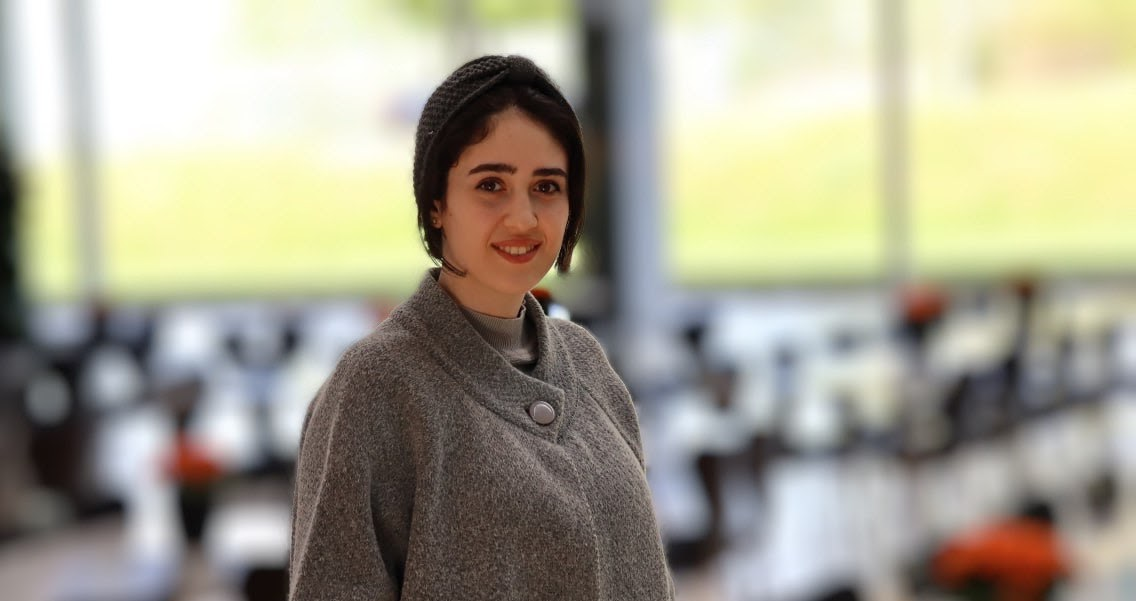
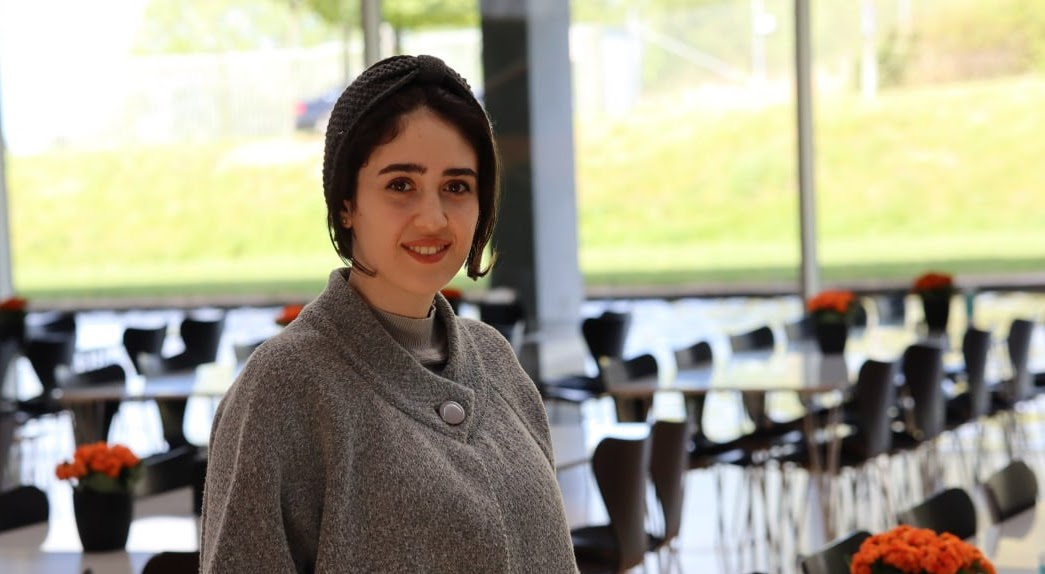
add about

diff --git a/style.css b/style.css
@@ -8,16 +8,17 @@
 body {
     margin: 0;
     font-family: Arial, sans-serif;
-    overflow-x: hidden; 
+    overflow-x: hidden;
+    background-color: #f4f4f4; 
 }
-/* font */
+/* font --------------------------------------*/
 .salsa-regular {
     font-family: "Salsa", cursive;
     font-weight: 400;
     font-style: normal;
 }
 
-/* Navbar */
+/* Navbar--------------------------------------------- */
 nav {
     display: flex;
     justify-content: space-around;
@@ -44,14 +45,15 @@ nav ul li a {
     color: white;
     text-decoration: none;
 }
-/* home page */
+/* home page ------------------------------*/
 .hero {
     position: relative; 
     height: 100vh;
     width: 100vw;
-    background-image: url('./assets/niloufar.jpg');
+    background-image: url('./assets/Niloufar.jpg');
     background-size: cover;
-    background-position: center;
+    background-position:center;
+    background-repeat: no-repeat;
     background-color: #333;
     display: flex;
     justify-content: center;
@@ -66,12 +68,12 @@ nav ul li a {
     left: 0;
     width: 100%;
     height: 100%;
-    background-color: rgba(0, 0, 0, 0.6); 
+    background-color: rgba(0, 0, 0, 0.65); 
 }
 
 .hero-content {
     position: absolute;
-    top: 50%; 
+    top: 45%; 
     left: 60%; 
     transform: translateY(-50%); 
     text-align: center; 
@@ -105,8 +107,8 @@ section {
     width: 100%; 
 }
 
+
 #about, #projects, #contact {
-    background-color: #f4f4f4;
     margin: 2em 0;
 }
 
@@ -124,6 +126,68 @@ section {
 @keyframes blink-caret {
     from, to { border-color: transparent }
     50% { border-color: white; }
+}
+
+/* about------------------------------------- */
+.about-content {
+    width: 100%;
+    margin:1.5rem auto;
+    display: flex;
+    flex-direction: column;
+    justify-content: center;
+    align-items: center;
+}
+
+.about-content p {
+    margin-bottom: 2rem;
+}
+.info{
+    width: 80%;
+    display: flex;
+    justify-content: space-around;
+    align-items: center;
+    gap: 3rem; 
+}
+.info p{
+    width: 50%;
+    text-align: justify;
+    margin: 1rem;
+    font-size: 1.2rem;
+}
+.info img{
+    width: 20rem;
+    height: 20rem;
+}
+
+.moreInfo{
+    display: flex;
+    justify-content: space-around;
+    align-items: center;
+    gap: 1rem;
+}
+.education,
+.experience,
+.skills {
+    margin-top: 2rem;
+}
+
+.education h3,
+.experience h3,
+.skills h3{
+    margin-bottom: 1rem;
+}
+
+.education ul,
+.experience ul,
+.skills ul {
+    list-style: none;
+    padding: 0;
+}
+
+.education li,
+.experience li,
+.skills li{
+    margin-bottom: 1rem;
 }
 
 @media (max-width: 499px) {

diff --git a/index.html b/index.html
@@ -30,19 +30,47 @@
             <button>My CV</button>
         </div>
     </section>
-
+    <!-- about -->
     <section id="about">
-        <h2>About Me</h2>
-        <p>This is the about section where you can write about yourself.</p>
+        <h2 class="salsa-regular">About Me</h2>
+        <div class="about-content">
+            <div class="info">
+                <img src="./assets/undraw_dev_focus_re_6iwt.svg">
+                <p>My name is Niloufar and I am a 27-year-old. In 2022, I made the life-changing decision to relocate from Iran to Denmark to support my husband's career. I left all my achievements behind and started a new life, hoping for a better future for my family. It was challenging to start from scratch, but I'm happy to say that I am now an enthusiastic web developer with a strong affinity for JavaScript. I'm passionate about crafting modern and user-friendly web applications. As a team player, problem solver, and continuous learner, I'm always eager to take on new challenges and contribute to innovative projects.</p>   
+            </div>
+            <div class="moreInfo">
+                <div class="experience salsa-regular">
+                    <h3>Education</h3>
+                    <ul>
+                        <li>Position, Company, Year</li>
+                
+                    </ul>
+                    <h3>Experience</h3>
+                    <ul>
+                        <li>Position, Company, Year</li>
+                
+                    </ul>
+                </div>
+                <div class="skills salsa-regular">
+                    <h3>Skills</h3>
+                    <ul>
+                        <li>Position, Company, Year</li>
+                
+                    </ul>
+                </div>
+            </div>
+            
+        </div>
     </section>
+    
 
     <section id="projects">
-        <h2>Projects</h2>
+        <h2 class="salsa-regular">Projects</h2>
         <p>This is the projects section where you can showcase your work.</p>
     </section>
 
     <section id="contact">
-        <h2>Contact</h2>
+        <h2 class="salsa-regular">Contact</h2>
         <p>This is the contact section where you can provide your contact details.</p>
     </section>
 
